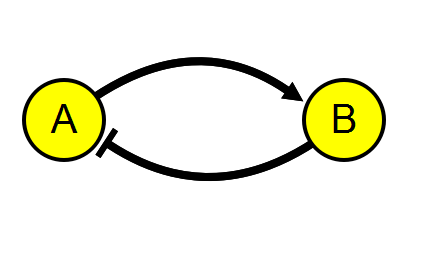
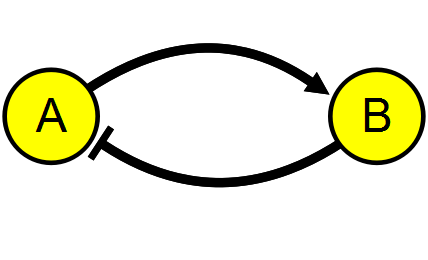
Revise write_image

Changed region(s): [[0.0, 0.1538, 1.0, 0.7385]]

diff --git a/nezzle/fileio.py b/nezzle/fileio.py
@@ -264,21 +264,21 @@ def write_json(net, fpath):
 def write_image(net,
                 fpath,
                 is_transparent=True,
-                quality=-1,
+                quality=100,
                 scale_width=100, scale_height=100,
                 dpi_width=350, dpi_height=350,
                 pad_width=10, pad_height=10):
-
 
     fname, fext = extract_name_and_ext(fpath)
 
     scene = net.scene
     scene.clearSelection()
+    scene.clearFocus()
     brect = scene.itemsBoundingRect()
     brect.adjust(-pad_width, -pad_height, +2*pad_width, +2*pad_height)
 
-    image = QImage((scale_width/100.0)*brect.width(),
-                   (scale_height/100.0)*brect.height(),
+    image = QImage((scale_width/100.0) * brect.width(),
+                   (scale_height/100.0) * brect.height(),
                    QImage.Format_ARGB32_Premultiplied)
 
     # [REF] http://stackoverflow.com/a/13425280/4136588
@@ -304,7 +304,7 @@ def write_image(net,
                            | QPainter.SmoothPixmapTransform
                            | QPainter.HighQualityAntialiasing)
 
-    scene.render(painter, source=brect)
+    scene.render(painter)
     image.save(fpath, fext.upper(), quality)
     painter.end()
 
